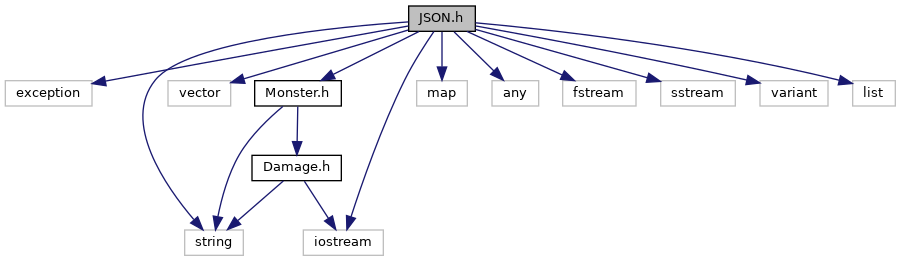
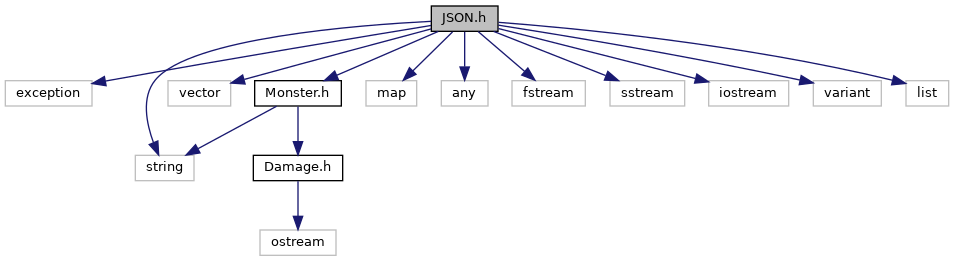
Update gh-pages to output generated at 68aafd5

diff --git a/Damage_8h_source.html b/Damage_8h_source.html
@@ -69,40 +69,39 @@ $(function() {
 <div class="contents">
 <div class="fragment"><div class="line"><a name="l00001"></a><span class="lineno">    1</span>&#160;<span class="preprocessor">#ifndef DAMAGE_H</span></div>
 <div class="line"><a name="l00002"></a><span class="lineno">    2</span>&#160;<span class="preprocessor">#define DAMAGE_H</span></div>
-<div class="line"><a name="l00003"></a><span class="lineno">    3</span>&#160;<span class="preprocessor">#include &lt;iostream&gt;</span></div>
-<div class="line"><a name="l00004"></a><span class="lineno">    4</span>&#160;<span class="preprocessor">#include &lt;string&gt;</span></div>
-<div class="line"><a name="l00005"></a><span class="lineno"><a class="line" href="structDamage.html">    5</a></span>&#160;<span class="keyword">struct </span><a class="code" href="structDamage.html">Damage</a> {</div>
-<div class="line"><a name="l00006"></a><span class="lineno">    6</span>&#160; </div>
-<div class="line"><a name="l00007"></a><span class="lineno">    7</span>&#160;    <span class="keywordtype">int</span> physical;</div>
-<div class="line"><a name="l00008"></a><span class="lineno">    8</span>&#160;    <span class="keywordtype">int</span> magical;</div>
-<div class="line"><a name="l00009"></a><span class="lineno">    9</span>&#160; </div>
-<div class="line"><a name="l00010"></a><span class="lineno">   10</span>&#160;    <a class="code" href="structDamage.html">Damage</a> operator+(<span class="keyword">const</span> <a class="code" href="structDamage.html">Damage</a>&amp; other){</div>
-<div class="line"><a name="l00011"></a><span class="lineno">   11</span>&#160;        <a class="code" href="structDamage.html">Damage</a> dmgToReturn;</div>
-<div class="line"><a name="l00012"></a><span class="lineno">   12</span>&#160;        dmgToReturn.physical = this-&gt;physical + other.physical;</div>
-<div class="line"><a name="l00013"></a><span class="lineno">   13</span>&#160;        dmgToReturn.magical = this-&gt;magical + other.magical;</div>
-<div class="line"><a name="l00014"></a><span class="lineno">   14</span>&#160;        <span class="keywordflow">return</span> dmgToReturn;</div>
-<div class="line"><a name="l00015"></a><span class="lineno">   15</span>&#160;    }</div>
-<div class="line"><a name="l00016"></a><span class="lineno">   16</span>&#160; </div>
-<div class="line"><a name="l00017"></a><span class="lineno">   17</span>&#160;    <a class="code" href="structDamage.html">Damage</a>&amp; operator+=(<span class="keyword">const</span> <a class="code" href="structDamage.html">Damage</a>&amp; other){</div>
-<div class="line"><a name="l00018"></a><span class="lineno">   18</span>&#160;        this-&gt;physical += other.physical;</div>
-<div class="line"><a name="l00019"></a><span class="lineno">   19</span>&#160;        this-&gt;magical += other.magical;</div>
-<div class="line"><a name="l00020"></a><span class="lineno">   20</span>&#160;        <span class="keywordflow">return</span> *<span class="keyword">this</span>;</div>
-<div class="line"><a name="l00021"></a><span class="lineno">   21</span>&#160;    }</div>
-<div class="line"><a name="l00022"></a><span class="lineno">   22</span>&#160; </div>
-<div class="line"><a name="l00023"></a><span class="lineno">   23</span>&#160;    <a class="code" href="structDamage.html">Damage</a>&amp; operator*=(<span class="keyword">const</span> <a class="code" href="structDamage.html">Damage</a>&amp; other){</div>
-<div class="line"><a name="l00024"></a><span class="lineno">   24</span>&#160;        this-&gt;physical *= other.physical;</div>
-<div class="line"><a name="l00025"></a><span class="lineno">   25</span>&#160;        this-&gt;magical *= other.magical;</div>
-<div class="line"><a name="l00026"></a><span class="lineno">   26</span>&#160;        <span class="keywordflow">return</span> *<span class="keyword">this</span>;</div>
-<div class="line"><a name="l00027"></a><span class="lineno">   27</span>&#160;    </div>
-<div class="line"><a name="l00028"></a><span class="lineno">   28</span>&#160;    }</div>
-<div class="line"><a name="l00029"></a><span class="lineno">   29</span>&#160;    <span class="keyword">friend</span> std::ostream&amp; operator&lt;&lt;(std::ostream&amp; out, <span class="keyword">const</span> <a class="code" href="structDamage.html">Damage</a>&amp; dmg){</div>
-<div class="line"><a name="l00030"></a><span class="lineno">   30</span>&#160;    out&lt;&lt;<span class="stringliteral">&quot;DMG: &quot;</span>&lt;&lt;dmg.physical&lt;&lt;<span class="stringliteral">&quot;, MagicalDMG: &quot;</span>&lt;&lt;dmg.magical;</div>
-<div class="line"><a name="l00031"></a><span class="lineno">   31</span>&#160;    <span class="keywordflow">return</span> out;</div>
-<div class="line"><a name="l00032"></a><span class="lineno">   32</span>&#160;    }</div>
-<div class="line"><a name="l00033"></a><span class="lineno">   33</span>&#160;};</div>
-<div class="line"><a name="l00034"></a><span class="lineno">   34</span>&#160;<span class="preprocessor">#endif</span></div>
+<div class="line"><a name="l00003"></a><span class="lineno">    3</span>&#160;<span class="preprocessor">#include &lt;ostream&gt;</span></div>
+<div class="line"><a name="l00004"></a><span class="lineno"><a class="line" href="structDamage.html">    4</a></span>&#160;<span class="keyword">struct </span><a class="code" href="structDamage.html">Damage</a> {</div>
+<div class="line"><a name="l00005"></a><span class="lineno">    5</span>&#160; </div>
+<div class="line"><a name="l00006"></a><span class="lineno">    6</span>&#160;    <span class="keywordtype">int</span> physical;</div>
+<div class="line"><a name="l00007"></a><span class="lineno">    7</span>&#160;    <span class="keywordtype">int</span> magical;</div>
+<div class="line"><a name="l00008"></a><span class="lineno">    8</span>&#160; </div>
+<div class="line"><a name="l00009"></a><span class="lineno">    9</span>&#160;    <a class="code" href="structDamage.html">Damage</a> operator+(<span class="keyword">const</span> <a class="code" href="structDamage.html">Damage</a>&amp; other){</div>
+<div class="line"><a name="l00010"></a><span class="lineno">   10</span>&#160;        <a class="code" href="structDamage.html">Damage</a> dmgToReturn;</div>
+<div class="line"><a name="l00011"></a><span class="lineno">   11</span>&#160;        dmgToReturn.physical = this-&gt;physical + other.physical;</div>
+<div class="line"><a name="l00012"></a><span class="lineno">   12</span>&#160;        dmgToReturn.magical = this-&gt;magical + other.magical;</div>
+<div class="line"><a name="l00013"></a><span class="lineno">   13</span>&#160;        <span class="keywordflow">return</span> dmgToReturn;</div>
+<div class="line"><a name="l00014"></a><span class="lineno">   14</span>&#160;    }</div>
+<div class="line"><a name="l00015"></a><span class="lineno">   15</span>&#160; </div>
+<div class="line"><a name="l00016"></a><span class="lineno">   16</span>&#160;    <a class="code" href="structDamage.html">Damage</a>&amp; operator+=(<span class="keyword">const</span> <a class="code" href="structDamage.html">Damage</a>&amp; other){</div>
+<div class="line"><a name="l00017"></a><span class="lineno">   17</span>&#160;        this-&gt;physical += other.physical;</div>
+<div class="line"><a name="l00018"></a><span class="lineno">   18</span>&#160;        this-&gt;magical += other.magical;</div>
+<div class="line"><a name="l00019"></a><span class="lineno">   19</span>&#160;        <span class="keywordflow">return</span> *<span class="keyword">this</span>;</div>
+<div class="line"><a name="l00020"></a><span class="lineno">   20</span>&#160;    }</div>
+<div class="line"><a name="l00021"></a><span class="lineno">   21</span>&#160; </div>
+<div class="line"><a name="l00022"></a><span class="lineno">   22</span>&#160;    <a class="code" href="structDamage.html">Damage</a>&amp; operator*=(<span class="keyword">const</span> <a class="code" href="structDamage.html">Damage</a>&amp; other){</div>
+<div class="line"><a name="l00023"></a><span class="lineno">   23</span>&#160;        this-&gt;physical *= other.physical;</div>
+<div class="line"><a name="l00024"></a><span class="lineno">   24</span>&#160;        this-&gt;magical *= other.magical;</div>
+<div class="line"><a name="l00025"></a><span class="lineno">   25</span>&#160;        <span class="keywordflow">return</span> *<span class="keyword">this</span>;</div>
+<div class="line"><a name="l00026"></a><span class="lineno">   26</span>&#160;    </div>
+<div class="line"><a name="l00027"></a><span class="lineno">   27</span>&#160;    }</div>
+<div class="line"><a name="l00028"></a><span class="lineno">   28</span>&#160;    <span class="keyword">friend</span> std::ostream&amp; operator&lt;&lt;(std::ostream&amp; out, <span class="keyword">const</span> <a class="code" href="structDamage.html">Damage</a>&amp; dmg){</div>
+<div class="line"><a name="l00029"></a><span class="lineno">   29</span>&#160;    out&lt;&lt;<span class="stringliteral">&quot;DMG: &quot;</span>&lt;&lt;dmg.physical&lt;&lt;<span class="stringliteral">&quot;, MagicalDMG: &quot;</span>&lt;&lt;dmg.magical;</div>
+<div class="line"><a name="l00030"></a><span class="lineno">   30</span>&#160;    <span class="keywordflow">return</span> out;</div>
+<div class="line"><a name="l00031"></a><span class="lineno">   31</span>&#160;    }</div>
+<div class="line"><a name="l00032"></a><span class="lineno">   32</span>&#160;};</div>
+<div class="line"><a name="l00033"></a><span class="lineno">   33</span>&#160;<span class="preprocessor">#endif</span></div>
 </div><!-- fragment --></div><!-- contents -->
-<div class="ttc" id="astructDamage_html"><div class="ttname"><a href="structDamage.html">Damage</a></div><div class="ttdef"><b>Definition:</b> Damage.h:5</div></div>
+<div class="ttc" id="astructDamage_html"><div class="ttname"><a href="structDamage.html">Damage</a></div><div class="ttdef"><b>Definition:</b> Damage.h:4</div></div>
 <!-- start footer part -->
 <hr class="footer"/><address class="footer"><small>
 Generated by &#160;<a href="http://www.doxygen.org/index.html">

diff --git a/Monster_8h_source.html b/Monster_8h_source.html
@@ -123,7 +123,7 @@ $(function() {
 <div class="ttc" id="aclassMonster_html_a35ef56f049bf8109cb5102250c1fce83"><div class="ttname"><a href="classMonster.html#a35ef56f049bf8109cb5102250c1fce83">Monster::setPosition</a></div><div class="ttdeci">void setPosition(int x, int y)</div><div class="ttdoc">Setter for the unit's position for the map. Evaluation logic of the move's validity happens inside th...</div><div class="ttdef"><b>Definition:</b> Monster.cpp:50</div></div>
 <div class="ttc" id="aclassMonster_html_a551f356faabfa8b0d3fd2aec0db53bf1"><div class="ttname"><a href="classMonster.html#a551f356faabfa8b0d3fd2aec0db53bf1">Monster::position</a></div><div class="ttdeci">std::pair&lt; int, int &gt; position</div><div class="ttdoc">Represents the unit's current coordinates on the game map.</div><div class="ttdef"><b>Definition:</b> Monster.h:151</div></div>
 <div class="ttc" id="aclassMonster_html_a3d2f854307d2415c379d2e60ed482968"><div class="ttname"><a href="classMonster.html#a3d2f854307d2415c379d2e60ed482968">Monster::getName</a></div><div class="ttdeci">const std::string &amp; getName() const</div><div class="ttdoc">Getter for the name of the character.</div><div class="ttdef"><b>Definition:</b> Monster.cpp:19</div></div>
-<div class="ttc" id="astructDamage_html"><div class="ttname"><a href="structDamage.html">Damage</a></div><div class="ttdef"><b>Definition:</b> Damage.h:5</div></div>
+<div class="ttc" id="astructDamage_html"><div class="ttname"><a href="structDamage.html">Damage</a></div><div class="ttdef"><b>Definition:</b> Damage.h:4</div></div>
 <div class="ttc" id="aclassMonster_html_a3299915749c117d00b28414f669197b3"><div class="ttname"><a href="classMonster.html#a3299915749c117d00b28414f669197b3">Monster::cooldown</a></div><div class="ttdeci">float cooldown</div><div class="ttdoc">Attack cooldown of the unit.</div><div class="ttdef"><b>Definition:</b> Monster.h:146</div></div>
 <div class="ttc" id="aclassMonster_html_ad867513550d7fde7e4b79806fe90ae2f"><div class="ttname"><a href="classMonster.html#ad867513550d7fde7e4b79806fe90ae2f">Monster::defense</a></div><div class="ttdeci">int defense</div><div class="ttdoc">Defense of the unit.</div><div class="ttdef"><b>Definition:</b> Monster.h:141</div></div>
 <div class="ttc" id="aclassMonster_html_aa35c4001f5786899aea7eb8168aa6f58"><div class="ttname"><a href="classMonster.html#aa35c4001f5786899aea7eb8168aa6f58">Monster::operator&lt;&lt;</a></div><div class="ttdeci">friend std::ostream &amp; operator&lt;&lt;(std::ostream &amp;os, const Monster &amp;character)</div><div class="ttdoc">Operator overload Printing a characters' status.</div><div class="ttdef"><b>Definition:</b> Monster.cpp:102</div></div>

diff --git a/Game_8h.html b/Game_8h.html
@@ -87,22 +87,23 @@ Include dependency graph for Game.h:</div>
 <div class="dyncontent">
 <div class="center"><img src="Game_8h__incl.png" border="0" usemap="#Game_8h" alt=""/></div>
 <map name="Game_8h" id="Game_8h">
-<area shape="rect" title="Game class." alt="" coords="308,5,382,32"/>
-<area shape="rect" title=" " alt="" coords="94,304,153,331"/>
-<area shape="rect" title=" " alt="" coords="191,155,254,181"/>
-<area shape="rect" title=" " alt="" coords="330,155,403,181"/>
-<area shape="rect" title=" " alt="" coords="428,155,502,181"/>
-<area shape="rect" title=" " alt="" coords="527,155,614,181"/>
-<area shape="rect" title=" " alt="" coords="978,155,1021,181"/>
-<area shape="rect" href="Hero_8h.html" title="Hero class." alt="" coords="36,80,102,107"/>
-<area shape="rect" href="Monster_8h.html" title="Monster class." alt="" coords="80,155,167,181"/>
-<area shape="rect" href="Map_8h.html" title="Map class." alt="" coords="279,80,342,107"/>
-<area shape="rect" href="JSON_8h.html" title=" " alt="" coords="557,80,624,107"/>
-<area shape="rect" href="Damage_8h_source.html" title=" " alt="" coords="120,229,210,256"/>
-<area shape="rect" title=" " alt="" coords="538,304,618,331"/>
-<area shape="rect" title=" " alt="" coords="689,155,740,181"/>
-<area shape="rect" title=" " alt="" coords="764,155,811,181"/>
-<area shape="rect" title=" " alt="" coords="835,155,903,181"/>
+<area shape="rect" title="Game class." alt="" coords="294,5,367,32"/>
+<area shape="rect" title=" " alt="" coords="772,229,831,256"/>
+<area shape="rect" title=" " alt="" coords="49,155,111,181"/>
+<area shape="rect" title=" " alt="" coords="135,155,209,181"/>
+<area shape="rect" title=" " alt="" coords="233,155,308,181"/>
+<area shape="rect" title=" " alt="" coords="333,155,419,181"/>
+<area shape="rect" title=" " alt="" coords="839,155,881,181"/>
+<area shape="rect" href="Hero_8h.html" title="Hero class." alt="" coords="957,80,1022,107"/>
+<area shape="rect" href="Monster_8h.html" title="Monster class." alt="" coords="906,155,993,181"/>
+<area shape="rect" href="Map_8h.html" title="Map class." alt="" coords="143,80,206,107"/>
+<area shape="rect" href="JSON_8h.html" title=" " alt="" coords="472,80,539,107"/>
+<area shape="rect" href="Damage_8h_source.html" title=" " alt="" coords="970,229,1059,256"/>
+<area shape="rect" title=" " alt="" coords="977,304,1053,331"/>
+<area shape="rect" title=" " alt="" coords="444,155,495,181"/>
+<area shape="rect" title=" " alt="" coords="519,155,566,181"/>
+<area shape="rect" title=" " alt="" coords="591,155,671,181"/>
+<area shape="rect" title=" " alt="" coords="695,155,763,181"/>
 </map>
 </div>
 </div>

diff --git a/Hero_8h_source.html b/Hero_8h_source.html
@@ -120,7 +120,7 @@ $(function() {
 <div class="ttc" id="aclassHero_html_ad8304002eae633bc0c32ee0980cf7d1b"><div class="ttname"><a href="classHero.html#ad8304002eae633bc0c32ee0980cf7d1b">Hero::experience</a></div><div class="ttdeci">int experience</div><div class="ttdoc">Tracking the units current Experience Points.</div><div class="ttdef"><b>Definition:</b> Hero.h:42</div></div>
 <div class="ttc" id="aclassHero_html_a6ff46be0ecde98f50f324058a1a289e4"><div class="ttname"><a href="classHero.html#a6ff46be0ecde98f50f324058a1a289e4">Hero::damageBonusPerLevel</a></div><div class="ttdeci">const int damageBonusPerLevel</div><div class="ttdoc">Extra attack damage per level.</div><div class="ttdef"><b>Definition:</b> Hero.h:57</div></div>
 <div class="ttc" id="aclassHero_html_a42177c32f27cf0c4a0ab9f0def809340"><div class="ttname"><a href="classHero.html#a42177c32f27cf0c4a0ab9f0def809340">Hero::getMaxHealthPoints</a></div><div class="ttdeci">const int &amp; getMaxHealthPoints() const</div><div class="ttdoc">Getter for maximum health points of our Hero.</div><div class="ttdef"><b>Definition:</b> Hero.cpp:12</div></div>
-<div class="ttc" id="astructDamage_html"><div class="ttname"><a href="structDamage.html">Damage</a></div><div class="ttdef"><b>Definition:</b> Damage.h:5</div></div>
+<div class="ttc" id="astructDamage_html"><div class="ttname"><a href="structDamage.html">Damage</a></div><div class="ttdef"><b>Definition:</b> Damage.h:4</div></div>
 <div class="ttc" id="aclassHero_html_a926246c88ed699f30992d5170eb63ff0"><div class="ttname"><a href="classHero.html#a926246c88ed699f30992d5170eb63ff0">Hero::cooldownMultiplierPerLevel</a></div><div class="ttdeci">const float cooldownMultiplierPerLevel</div><div class="ttdoc">Member variable responsible for the rate of change in a given Hero's cooldown after leveling up.</div><div class="ttdef"><b>Definition:</b> Hero.h:71</div></div>
 <div class="ttc" id="aclassHero_html_a30e1bc3ac558cd7c23f62162092637bf"><div class="ttname"><a href="classHero.html#a30e1bc3ac558cd7c23f62162092637bf">Hero::defenseBonusPerLevel</a></div><div class="ttdeci">const int defenseBonusPerLevel</div><div class="ttdoc">Extra defense per level.</div><div class="ttdef"><b>Definition:</b> Hero.h:64</div></div>
 <div class="ttc" id="aclassHero_html_aa62f35226da9a03419e1b6e176c7970c"><div class="ttname"><a href="classHero.html#aa62f35226da9a03419e1b6e176c7970c">Hero::experiencePerLevel</a></div><div class="ttdeci">const int experiencePerLevel</div><div class="ttdoc">Experience needed to level up.</div><div class="ttdef"><b>Definition:</b> Hero.h:47</div></div>

diff --git a/JSON_8h.html b/JSON_8h.html
@@ -85,19 +85,20 @@ Include dependency graph for JSON.h:</div>
 <div class="dyncontent">
 <div class="center"><img src="JSON_8h__incl.png" border="0" usemap="#JSON_8h" alt=""/></div>
 <map name="JSON_8h" id="JSON_8h">
-<area shape="rect" title=" " alt="" coords="409,5,475,32"/>
+<area shape="rect" title=" " alt="" coords="431,5,498,32"/>
 <area shape="rect" title=" " alt="" coords="5,80,92,107"/>
-<area shape="rect" title=" " alt="" coords="185,229,243,256"/>
+<area shape="rect" title=" " alt="" coords="135,155,194,181"/>
 <area shape="rect" title=" " alt="" coords="168,80,231,107"/>
 <area shape="rect" href="Monster_8h.html" title="Monster class." alt="" coords="255,80,341,107"/>
-<area shape="rect" title=" " alt="" coords="303,229,383,256"/>
-<area shape="rect" title=" " alt="" coords="417,80,467,107"/>
-<area shape="rect" title=" " alt="" coords="492,80,539,107"/>
-<area shape="rect" title=" " alt="" coords="563,80,636,107"/>
-<area shape="rect" title=" " alt="" coords="661,80,735,107"/>
-<area shape="rect" title=" " alt="" coords="760,80,828,107"/>
-<area shape="rect" title=" " alt="" coords="853,80,895,107"/>
-<area shape="rect" href="Damage_8h_source.html" title=" " alt="" coords="252,155,341,181"/>
+<area shape="rect" title=" " alt="" coords="366,80,417,107"/>
+<area shape="rect" title=" " alt="" coords="441,80,488,107"/>
+<area shape="rect" title=" " alt="" coords="512,80,585,107"/>
+<area shape="rect" title=" " alt="" coords="610,80,685,107"/>
+<area shape="rect" title=" " alt="" coords="709,80,789,107"/>
+<area shape="rect" title=" " alt="" coords="813,80,881,107"/>
+<area shape="rect" title=" " alt="" coords="906,80,949,107"/>
+<area shape="rect" href="Damage_8h_source.html" title=" " alt="" coords="253,155,343,181"/>
+<area shape="rect" title=" " alt="" coords="260,229,336,256"/>
 </map>
 </div>
 </div><div class="textblock"><div class="dynheader">

diff --git a/Hero_8h.html b/Hero_8h.html
@@ -80,11 +80,11 @@ Include dependency graph for Hero.h:</div>
 <div class="dyncontent">
 <div class="center"><img src="Hero_8h__incl.png" border="0" usemap="#Hero_8h" alt=""/></div>
 <map name="Hero_8h" id="Hero_8h">
-<area shape="rect" title="Hero class." alt="" coords="35,5,101,32"/>
-<area shape="rect" title=" " alt="" coords="20,229,79,256"/>
-<area shape="rect" href="Monster_8h.html" title="Monster class." alt="" coords="25,80,111,107"/>
-<area shape="rect" href="Damage_8h_source.html" title=" " alt="" coords="95,155,185,181"/>
-<area shape="rect" title=" " alt="" coords="103,229,183,256"/>
+<area shape="rect" title="Hero class." alt="" coords="51,5,117,32"/>
+<area shape="rect" title=" " alt="" coords="5,155,64,181"/>
+<area shape="rect" href="Monster_8h.html" title="Monster class." alt="" coords="41,80,127,107"/>
+<area shape="rect" href="Damage_8h_source.html" title=" " alt="" coords="105,155,194,181"/>
+<area shape="rect" title=" " alt="" coords="111,229,187,256"/>
 </map>
 </div>
 </div><div class="textblock"><div class="dynheader">

diff --git a/Monster_8h.html b/Monster_8h.html
@@ -79,10 +79,10 @@ Include dependency graph for Monster.h:</div>
 <div class="dyncontent">
 <div class="center"><img src="Monster_8h__incl.png" border="0" usemap="#Monster_8h" alt=""/></div>
 <map name="Monster_8h" id="Monster_8h">
-<area shape="rect" title="Monster class." alt="" coords="33,5,119,32"/>
-<area shape="rect" title=" " alt="" coords="5,155,64,181"/>
-<area shape="rect" href="Damage_8h_source.html" title=" " alt="" coords="73,80,162,107"/>
-<area shape="rect" title=" " alt="" coords="88,155,168,181"/>
+<area shape="rect" title="Monster class." alt="" coords="41,5,127,32"/>
+<area shape="rect" title=" " alt="" coords="5,80,64,107"/>
+<area shape="rect" href="Damage_8h_source.html" title=" " alt="" coords="89,80,178,107"/>
+<area shape="rect" title=" " alt="" coords="95,155,171,181"/>
 </map>
 </div>
 </div><div class="textblock"><div class="dynheader">
